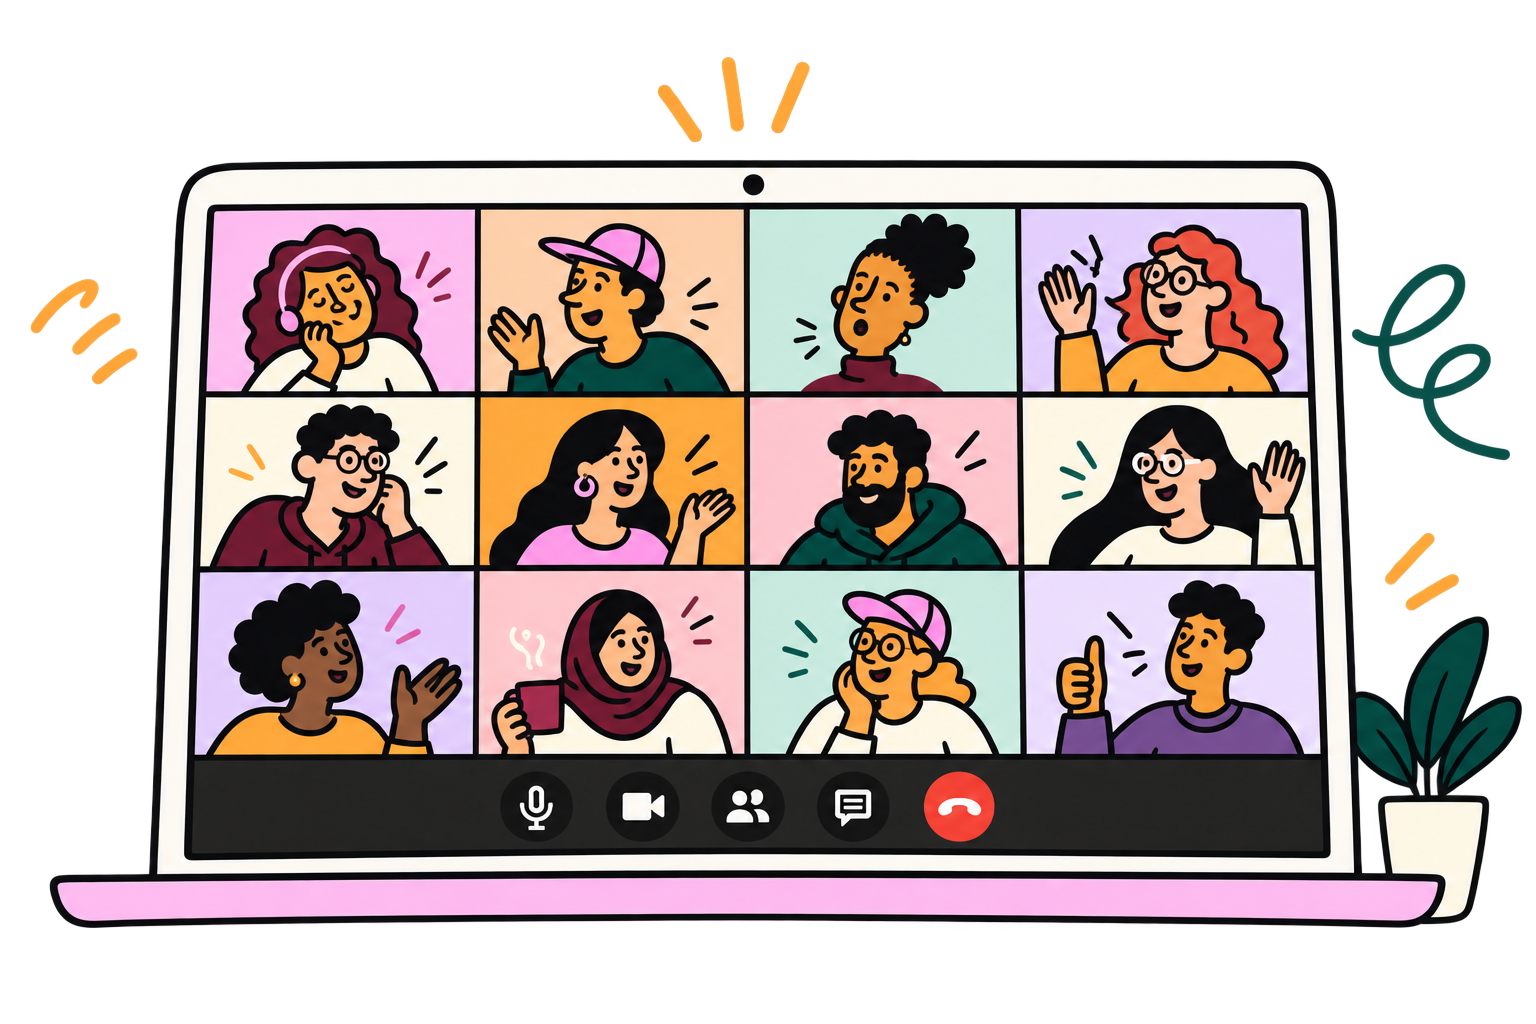
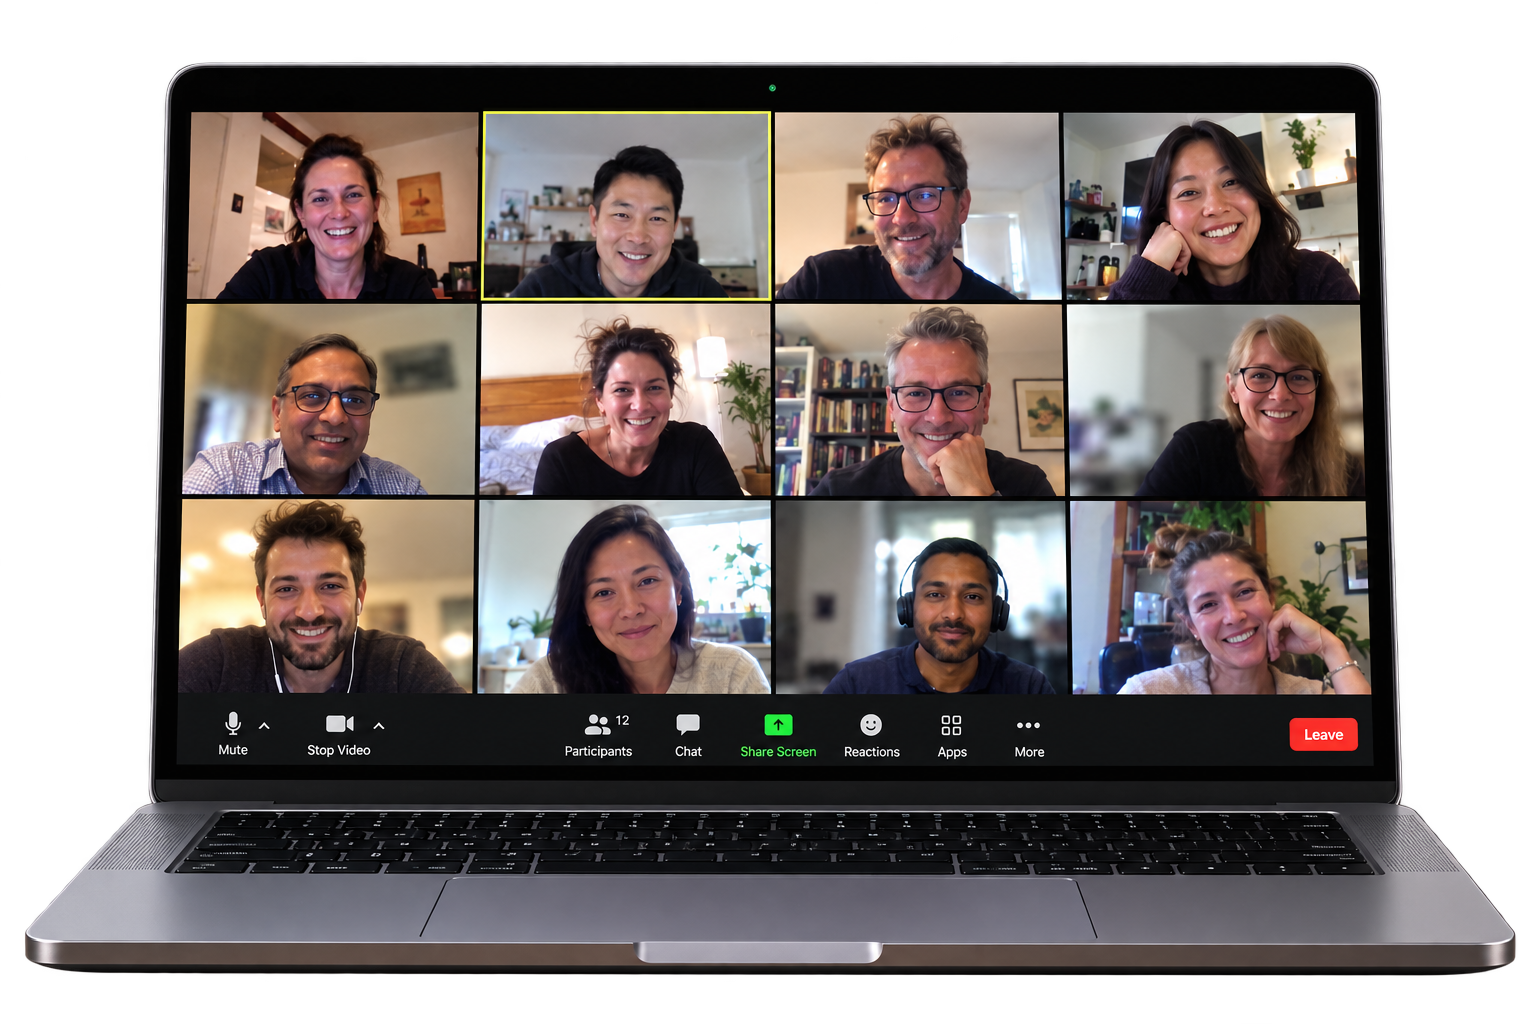
replace hero illustrated image with created image

diff --git a/src/index.css b/src/index.css
@@ -29,12 +29,12 @@ nav > :is(a, button):not(.event-button):hover::after { right:0; }
 .event-button svg { width: 22px; height: 22px; fill: none; stroke: currentColor; stroke-width: 2; stroke-linecap: round; stroke-linejoin: round; }
 .event-button.compact { padding: 15px 26px; font-size: 16px; gap: 15px; }
 .event-button.compact svg { width: 18px; }
-.hero { min-height: 610px; display: grid; grid-template-columns: 36% 64%; align-items: center; position: relative; padding-top: 8px; padding-bottom: 70px; }
+.hero { min-height:610px; display:grid; grid-template-columns:minmax(0, .86fr) minmax(0, 1.14fr); gap:48px; align-items:center; position:relative; padding-top:8px; padding-bottom:70px; }
 .hero-copy { align-self: start; padding-top: 22px; position: relative; z-index: 2; }
-h1 { margin: 0; color: #7b103b; font-size: clamp(66px, 5.2vw, 84px); line-height: .84; letter-spacing: -5px; font-weight: 900; }
+h1 { margin:0; color:#7b103b; font-size:clamp(60px, 4.45vw, 78px); line-height:.88; letter-spacing:-4px; font-weight:900; }
 .hero-copy > p { white-space: pre-line; font-size: 23px; line-height: 1.35; margin: 32px 0 28px; }
-.hero-visual { width: 108%; margin-left: -4%; position: relative; z-index: 1; filter: drop-shadow(0 24px 26px rgba(45, 18, 30, .15)); }
-.hero-visual img { display:block; width:100%; aspect-ratio: 1.5; object-fit: cover; border-radius: 45% 44% 8% 8% / 12% 12% 8% 8%; }
+.hero-visual { width:94%; min-width:0; justify-self:end; position:relative; z-index:1; filter:drop-shadow(0 24px 26px rgba(45, 18, 30, .15)); }
+.hero-visual img { display:block; width:100%; aspect-ratio:1.5; object-fit:cover; object-position:center; border-radius:28px; }
 .event-note { display:flex; align-items:center; gap: 8px; margin: 8px 0 0 20px; font-family: Caveat, cursive; font-size: 23px; font-weight: 700; line-height: .9; transform: rotate(-5deg); color: #2b1520; }
 .event-note svg { width: 65px; height: 55px; fill:none; stroke: currentColor; stroke-width:3; stroke-linecap:round; stroke-linejoin:round; }
 .event-note i { width: 37px; height: 15px; border-bottom: 5px solid #ff9f3c; border-radius: 50%; transform: rotate(8deg); }
@@ -88,10 +88,10 @@ footer > a { font-weight:800; color:#7b103b; }
 @media (max-width: 1050px) {
   .site-header { height:110px; }
   nav { gap:28px; }
-  .hero { grid-template-columns:42% 58%; min-height:580px; }
-  h1 { font-size:64px; }
+  .hero { grid-template-columns:minmax(0, .82fr) minmax(0, 1.18fr); gap:32px; min-height:580px; }
+  h1 { font-size:58px; }
   .hero-copy > p { font-size:19px; }
-  .hero-visual { width:110%; }
+  .hero-visual { width:94%; }
   .doodle.squiggle { display:none; }
   .how-grid { grid-template-columns:1fr; }
   .how-intro > p { white-space:normal; max-width:720px; }
@@ -113,8 +113,8 @@ footer > a { font-weight:800; color:#7b103b; }
   .hero-copy { width:100%; padding:0; }
   h1 { font-size:clamp(58px,18vw,82px); letter-spacing:-4px; }
   .hero-copy > p { font-size:19px; margin:28px 0 24px; white-space:normal; max-width:430px; }
-  .hero-visual { order:-1; width:112%; margin:0 0 32px; align-self:center; }
-  .hero-visual img { border-radius:22px; aspect-ratio:1.5; }
+  .hero-visual { order:-1; width:105%; margin:0 0 32px; align-self:center; }
+  .hero-visual img { border-radius:20px; aspect-ratio:1.5; }
   .doodle.rays { top:3px; left:auto; right:10%; width:50px; }
   .doodle.sparks { display:none; }
   .event-note { margin-left:5px; }

diff --git a/src/App.jsx b/src/App.jsx
@@ -94,7 +94,7 @@ function App() {
             </div>
           </div>
           <div className="hero-visual">
-            <img src="/illustrations/hero-laptop.png" alt="A colourful illustrated laptop showing twelve diverse people in a friendly video call" />
+            <img src="/illustrations/hero-laptop.png" alt="Twelve professionals meeting in a friendly online video call" />
           </div>
         </section>
 
